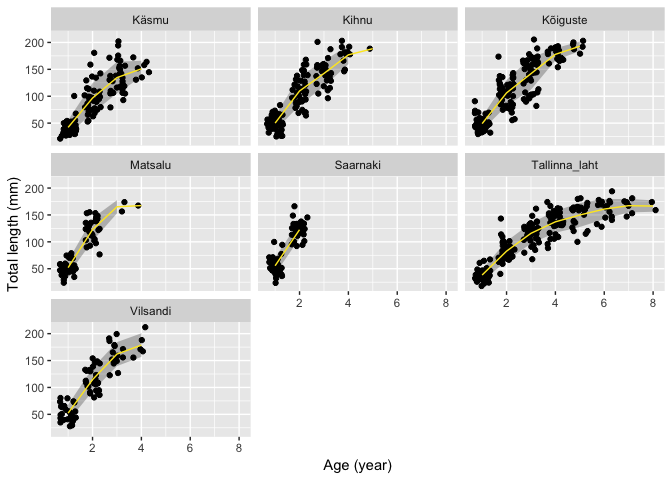
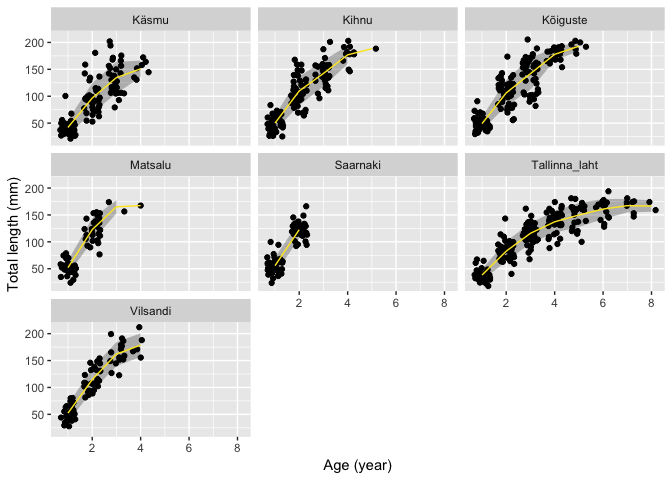
added introduction year

diff --git a/R/analyse_otol.md b/R/analyse_otol.md
@@ -15,6 +15,7 @@ mudil <- read_csv("../output/andmed_otoliit.csv")
     ##   nr = col_integer(),
     ##   sex = col_integer(),
     ##   location = col_character(),
+    ##   introduction = col_integer(),
     ##   age = col_integer(),
     ##   tl = col_double()
     ## )
@@ -23,19 +24,19 @@ mudil <- read_csv("../output/andmed_otoliit.csv")
 mudil
 ```
 
-    ## # A tibble: 961 x 5
-    ##       nr   sex location        age    tl
-    ##    <int> <int> <chr>         <int> <dbl>
-    ##  1    38     3 Tallinna laht     0  29  
-    ##  2    40     3 Tallinna laht     0  33  
-    ##  3    42     3 Tallinna laht     0  39  
-    ##  4    48     3 Tallinna laht     0  46  
-    ##  5    54     3 Kihnu             1  35.3
-    ##  6    56     3 Kihnu             1  42.8
-    ##  7    63     3 Kihnu             1  44.4
-    ##  8    68     3 Kihnu             1  22.4
-    ##  9     6     0 Kihnu             1  66.5
-    ## 10     8     0 Kihnu             1  33.6
+    ## # A tibble: 961 x 6
+    ##       nr   sex location      introduction   age    tl
+    ##    <int> <int> <chr>                <int> <int> <dbl>
+    ##  1    38     3 Tallinna laht         2005     0  29  
+    ##  2    40     3 Tallinna laht         2005     0  33  
+    ##  3    42     3 Tallinna laht         2005     0  39  
+    ##  4    48     3 Tallinna laht         2005     0  46  
+    ##  5    54     3 Kihnu                 2012     1  35.3
+    ##  6    56     3 Kihnu                 2012     1  42.8
+    ##  7    63     3 Kihnu                 2012     1  44.4
+    ##  8    68     3 Kihnu                 2012     1  22.4
+    ##  9     6     0 Kihnu                 2012     1  66.5
+    ## 10     8     0 Kihnu                 2012     1  33.6
     ## # ... with 951 more rows
 
 Fish id: location + nr
@@ -155,6 +156,12 @@ Starting values for van bertalaffny model coefficients
 
 ``` r
 library(FSA)
+```
+
+    ## ## FSA v0.8.20. See citation('FSA') if used in publication.
+    ## ## Run fishR() for related website and fishR('IFAR') for related book.
+
+``` r
 svTypical <- vbStarts(tl ~ age, data = mudil_ad)
 unlist(svTypical)
 ```
